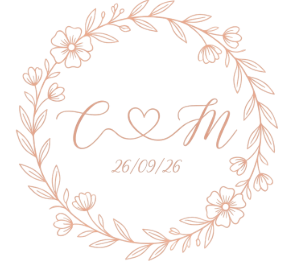
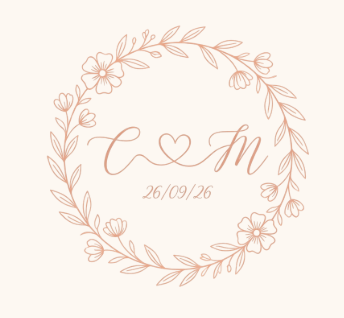
Add files via upload

Changed region(s): [[0.0302, 0.0, 0.9362, 0.9925]]

diff --git a/index.html b/index.html
@@ -706,7 +706,7 @@
     .env-nombre {
       position: absolute;
       left: 0; right: 0;
-      top: 42%; bottom: 0;
+      top: 48%; bottom: 0;
       display: flex;
       flex-direction: column;
       align-items: center;
@@ -725,7 +725,7 @@
     .env-nombre-valor {
       font-family: var(--serif);
       font-style: italic;
-      font-size: min(32px, 6.2vw);
+      font-size: min(40px, 6.2vw);
       font-weight: 400;
       color: var(--accent);
       text-align: center;
@@ -984,7 +984,7 @@
              vacío ("") para fondo liso
 ──────────────────────────────────────────────────── */
 const SOBRE = {
-  logoUrl:       "sello.png", /* sello/logo — PNG transparente        */
+  logoUrl:       "sello.jpg", /* sello/logo — PNG transparente        */
   fondoUrl:      "fondo-sobre.jpg",          /* fondo del OVERLAY (pantalla completa) */
   fondoSobreUrl: "imange-sobre.png",          /* fondo del SOBRE (dentro del rectángulo) ej: "interior-sobre.jpg" */
 };
